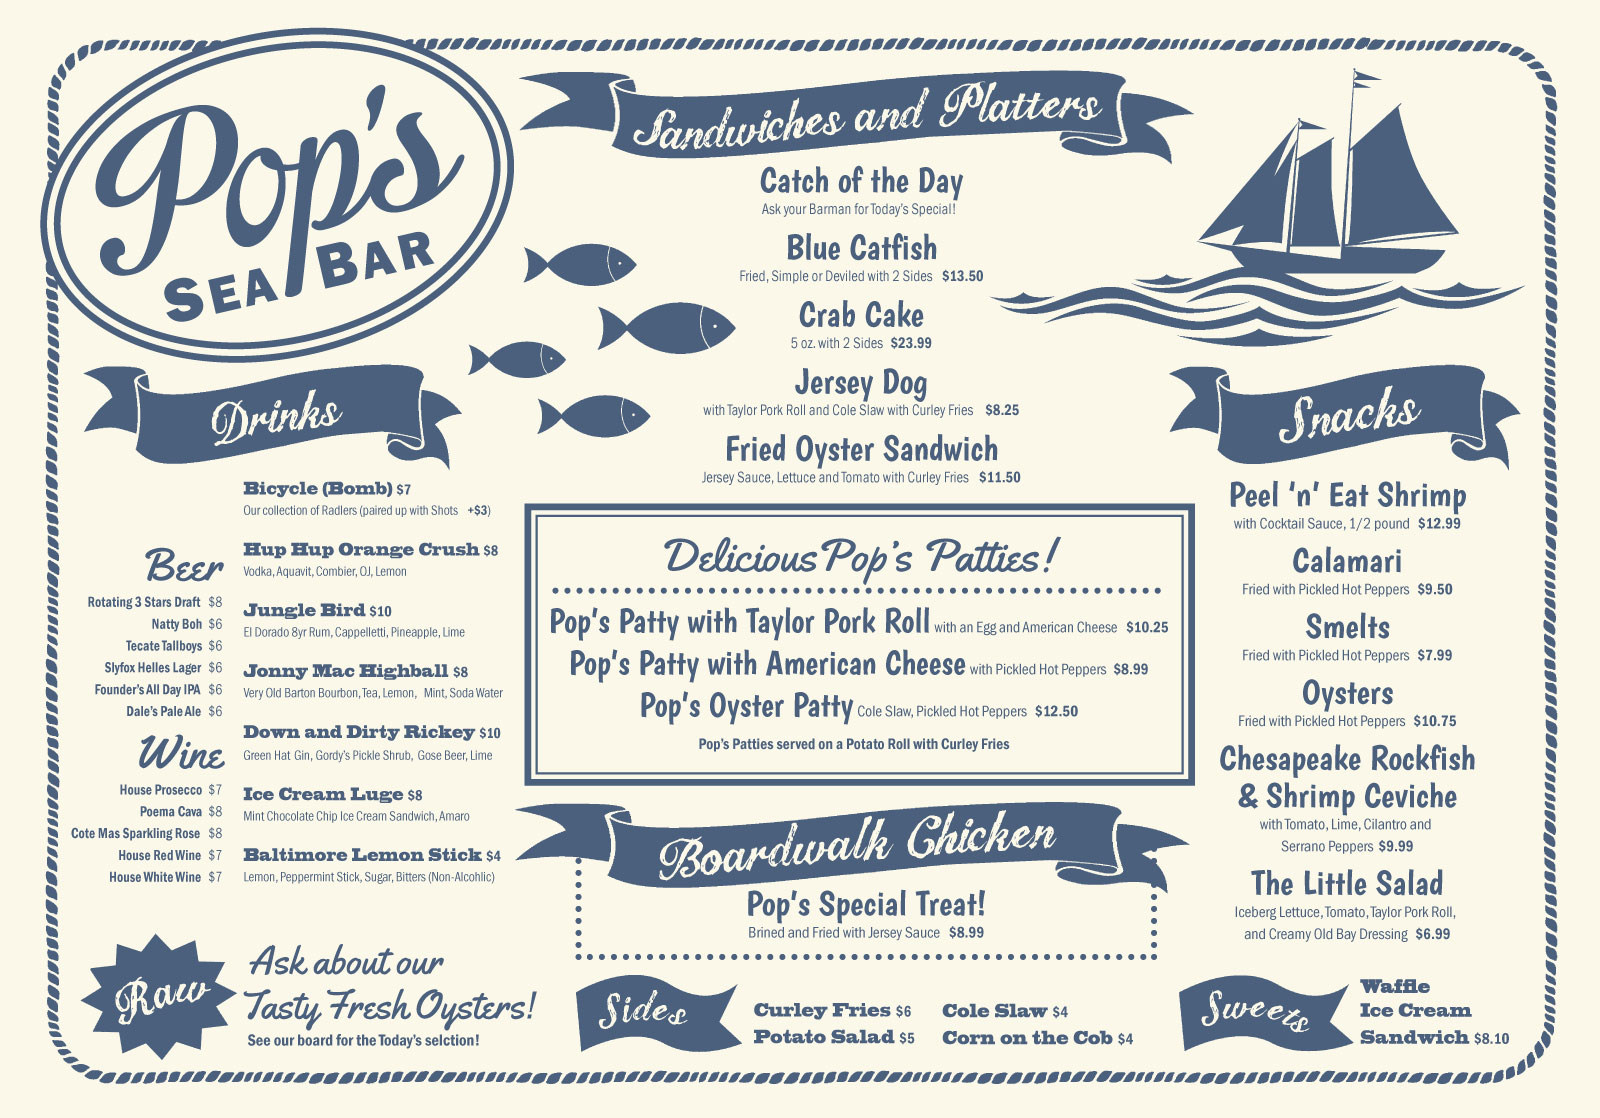
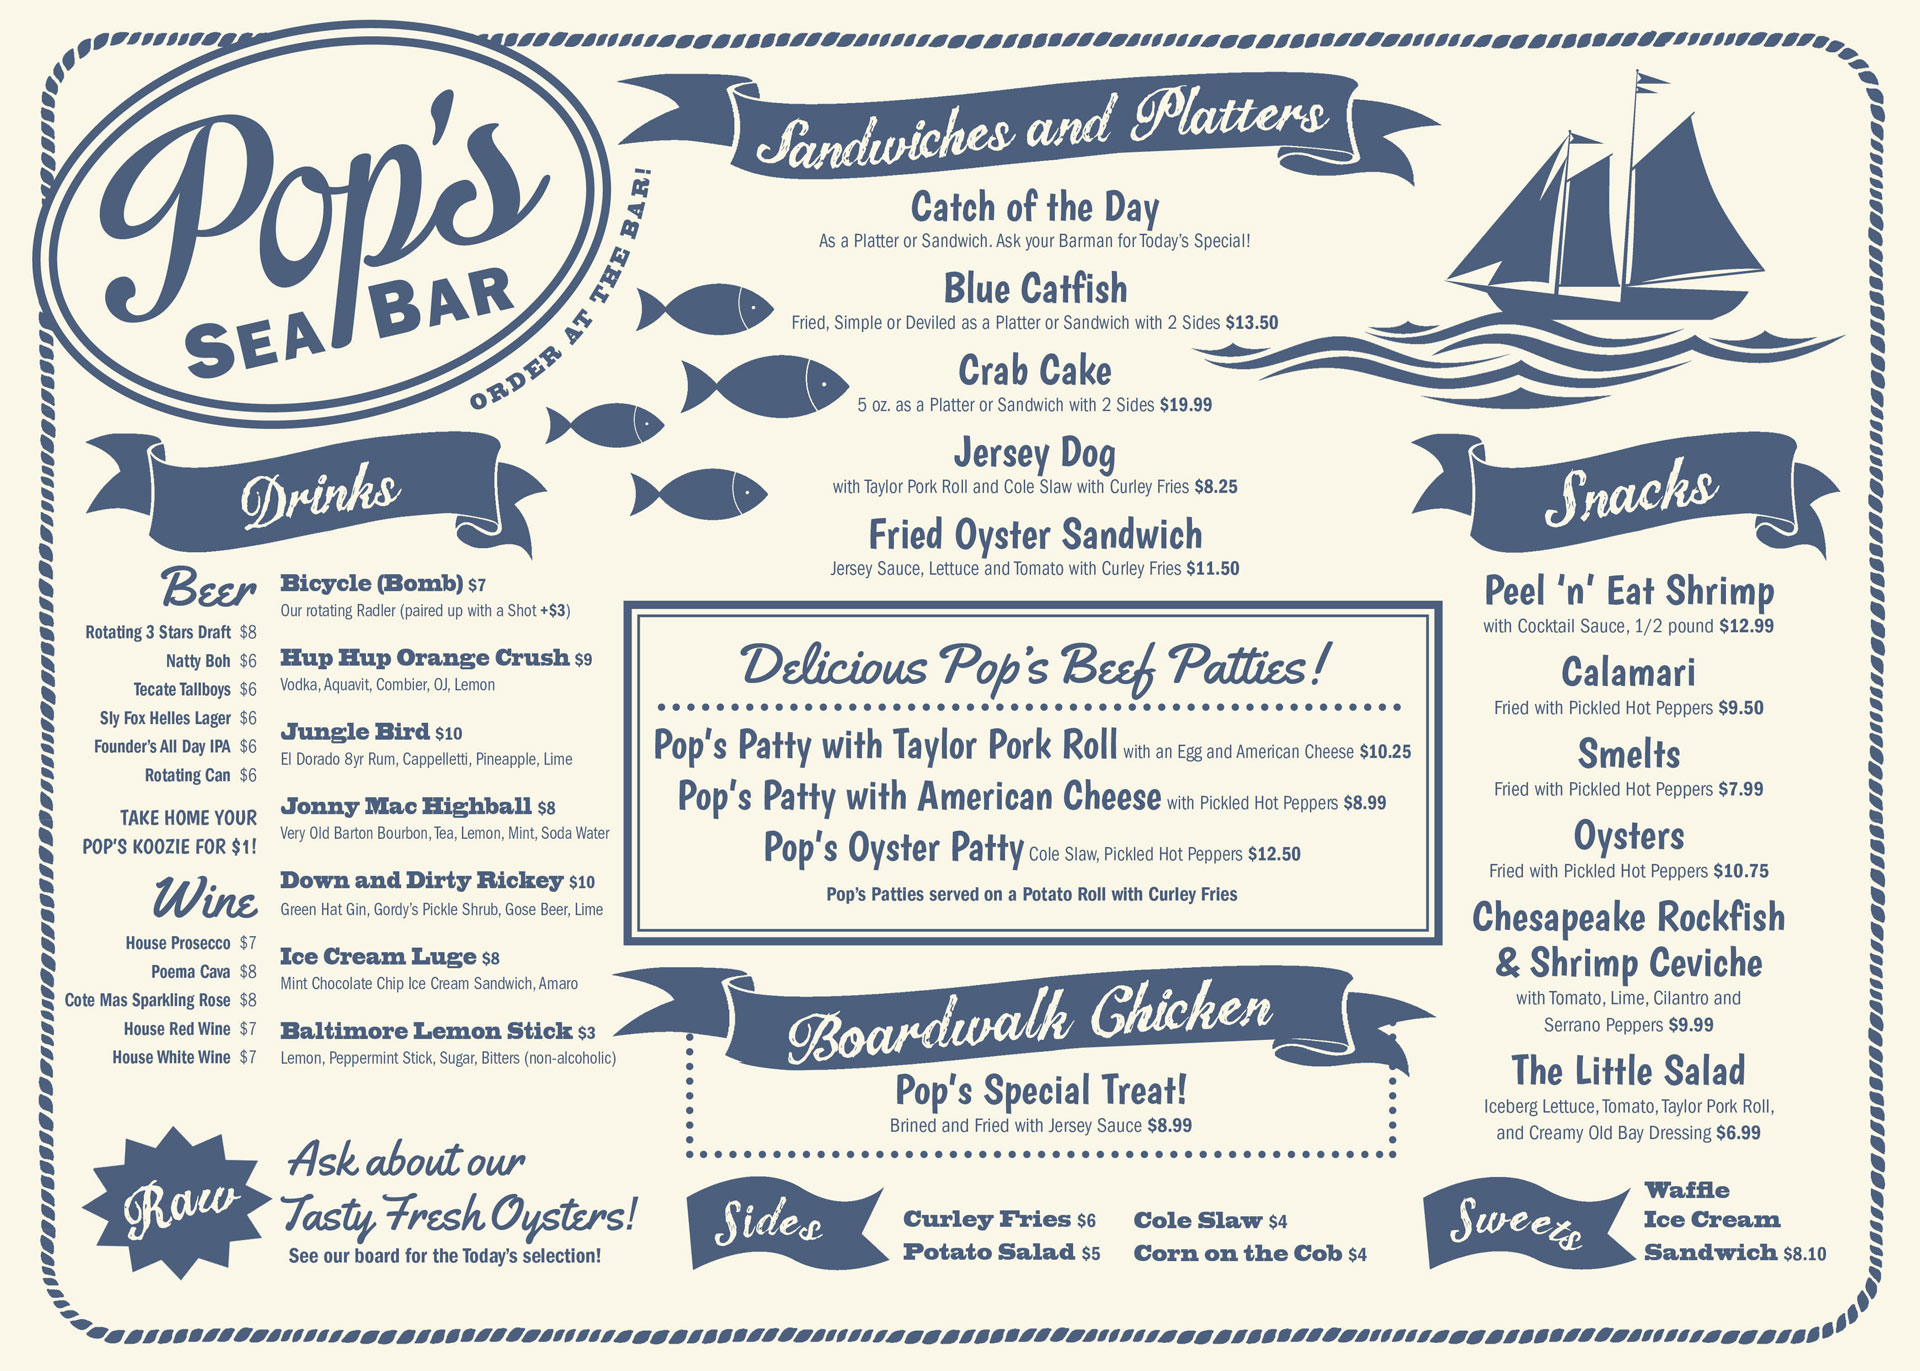
Updated menu

diff --git a/css/styles.scss b/css/styles.scss
@@ -5,7 +5,7 @@ $bgcolor: #F4F3ED;
 $alt-color: #337C97;
 $menu-bgcolor: #FAF7E8;
 $menu-color: #4C607D;
-$menu-aspect-ratio: 0.69875;
+$menu-aspect-ratio: 0.7140625;
 
 $body-fonts: Arial, "Helvetica Neue", Helvetica, sans-serif;
 $fancy-fonts: Boogaloo, cursive;
